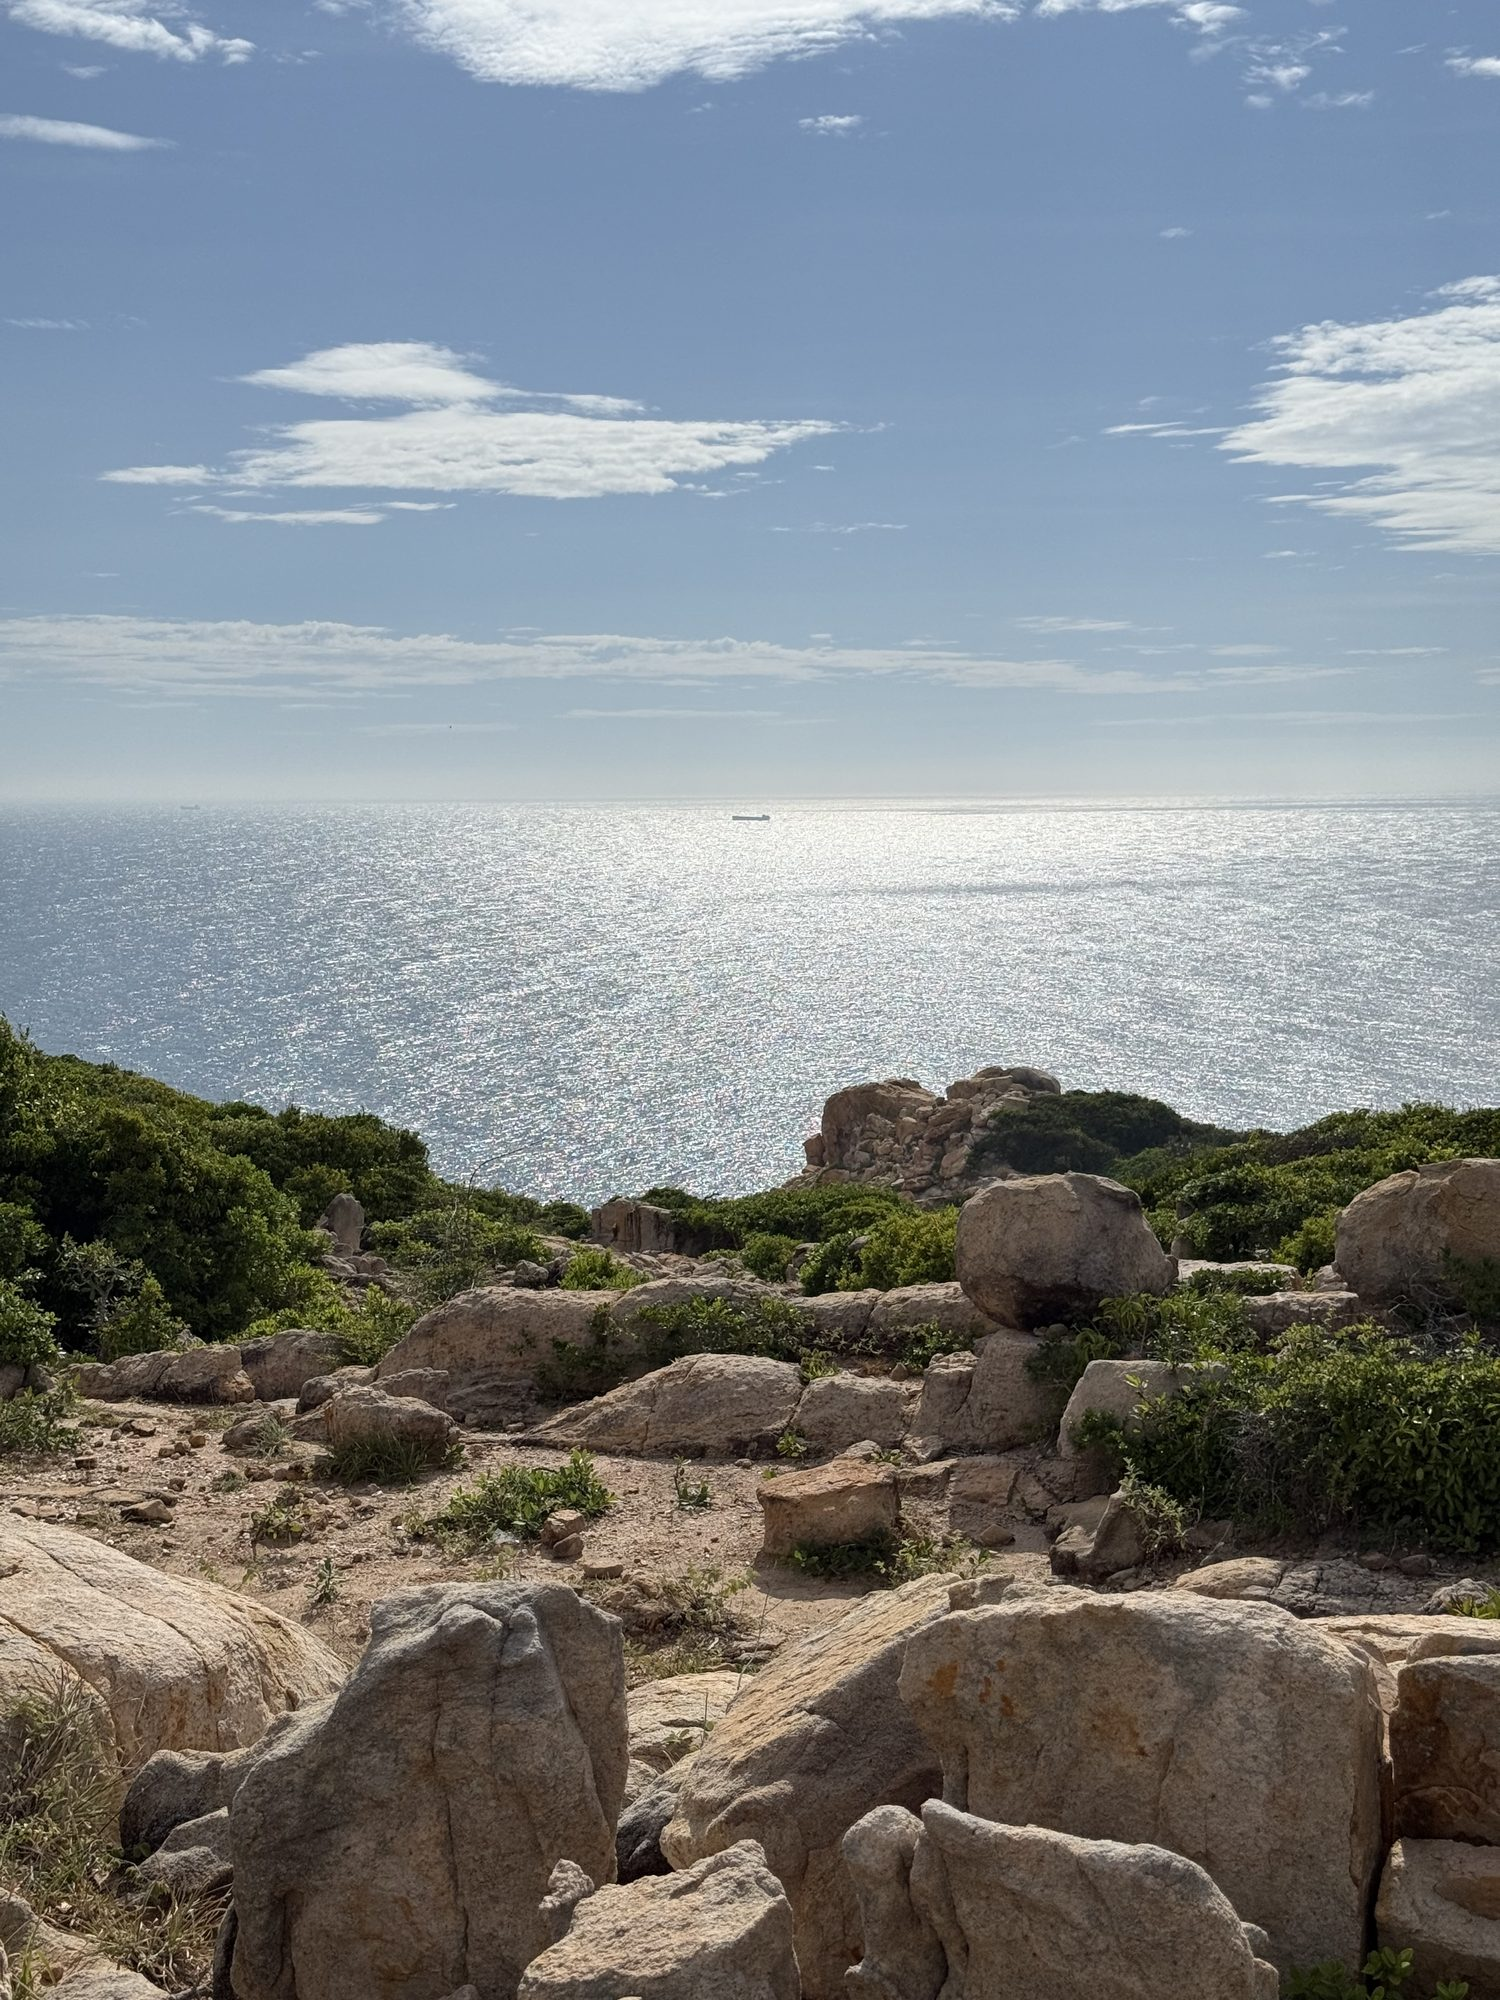
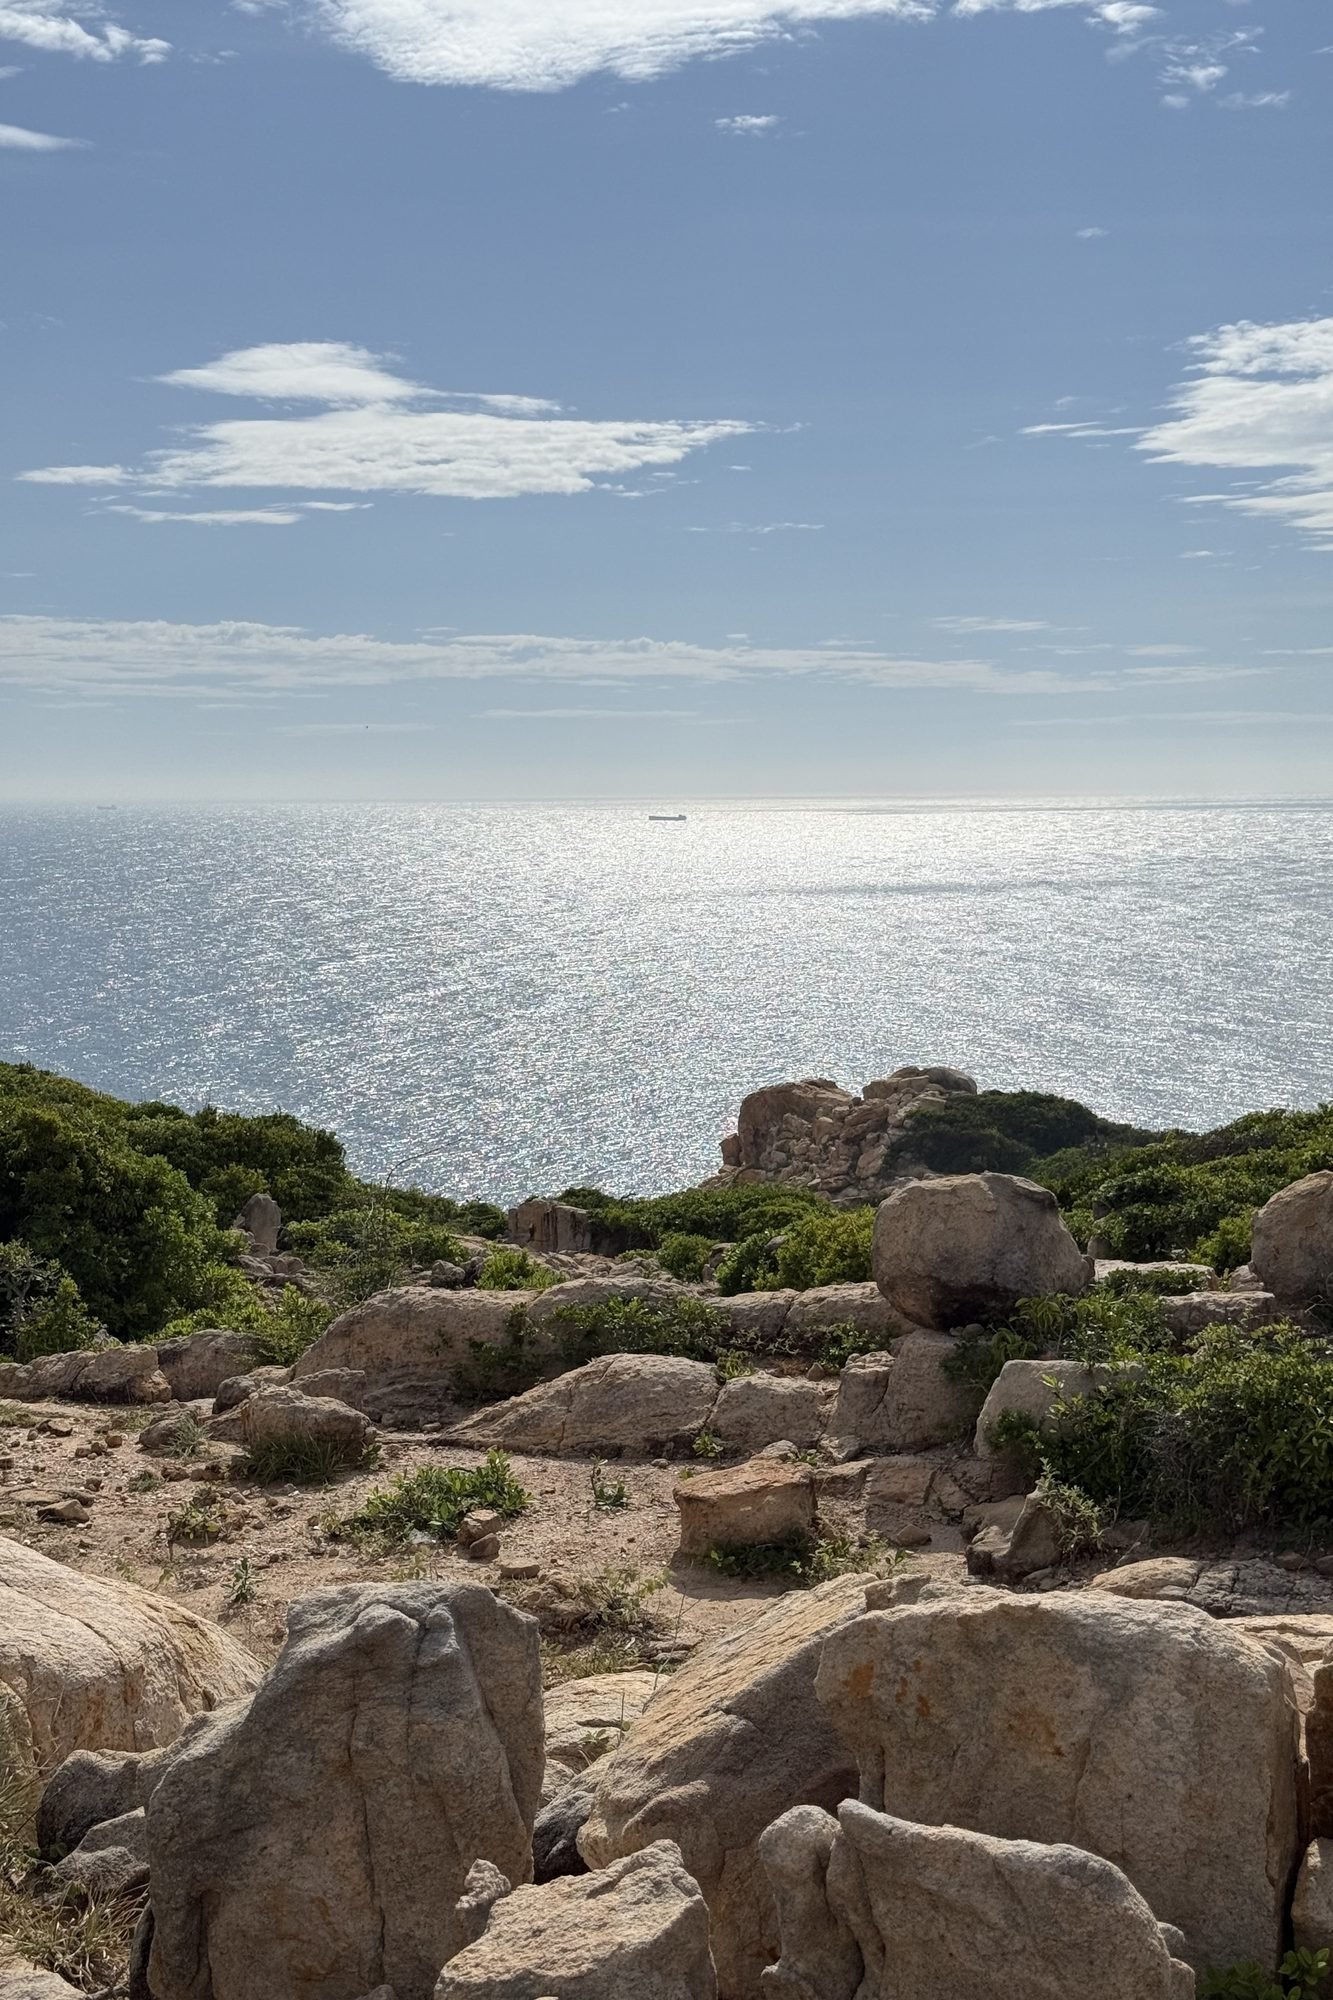
Galleries: 3:2 crops, four more cats, flipboard shuffle in the grid
Crop the four photos that weren't 3:2 (Istanbul cat, Ho Chi Minh City
cats, Vinh Hy, Toya) and add four cat photos. Grid slots are split-flap
tiles made of photo halves: every 15 seconds 3-6 slots trade photos,
each flapping through the photos in play. Drop the photo count from the
grid header and the dimming of other departures.

Claude-Session: https://claude.ai/code/session_01VstKBhx9XzpjtZXWaFpTid

diff --git a/assets/board.js b/assets/board.js
@@ -18,6 +18,7 @@
     },
     rotate: [3000, 8000],    // each row re-rolls its nonsense time / gate in this window
     songMs: 120000,          // music-of-the-day line changes this often
+    photoShuffleMs: 15000,   // gallery grids shuffle a few photos this often
   };
 
   // character drums: a tile flaps through these in order
@@ -741,16 +742,10 @@
   // ---------- screens ----------
   // the departure for the open screen shows in yellow (its status reads DEPARTED in red)
   function markSelected() {
-    let any = false;
     bottom.forEach((r) => {
       const it = r.data.item;
-      const on = !!it && screenFromHref(it.href) === state.screen && state.screen !== 'home';
-      any = any || on;
-      if (r.el) r.el.classList.toggle('sel', on);
+      if (r.el) r.el.classList.toggle('sel', !!it && screenFromHref(it.href) === state.screen && state.screen !== 'home');
     });
-    // the other departures recede so the eye lands on the selected one
-    const pane = bottom[0] && bottom[0].el && bottom[0].el.closest('.panel');
-    if (pane) pane.classList.toggle('has-sel', any);
   }
 
   function show(id, { boot = false } = {}) {
@@ -820,24 +815,94 @@
     if (state.gal) renderGallery(false);
   }
 
+  // ---- grid slots are split-flap tiles made of photo halves ----
+  G.order = {}; // gallery -> which photo sits in each slot
+  const thumbBg = (gid, idx) => `url("${photoSrc(gid, GALLERIES[gid].items[idx], true)}")`;
+
+  function makeSlot(gid) {
+    const a = h('a', 'thumb', { role: 'listitem' });
+    a.innerHTML = '<span class="ph t"><i></i></span><span class="ph b"><i></i></span><span class="ph ft"><i></i></span><span class="ph fb"><i></i></span>';
+    const [t, b, ft, fb] = Array.from(a.children, (c) => c.firstChild);
+    const slot = { el: a, t, b, ft, fb, gid, item: -1 };
+    a.addEventListener('click', (e) => {
+      if (e.metaKey || e.ctrlKey || e.shiftKey || e.altKey) return;
+      e.preventDefault();
+      navTo(`${gid}/${slot.item + 1}`);
+    });
+    return slot;
+  }
+  function labelSlot(slot) {
+    const p = GALLERIES[slot.gid].items[slot.item];
+    slot.el.setAttribute('href', `#${slot.gid}/${slot.item + 1}`);
+    slot.el.setAttribute('aria-label', p.caption);
+    slot.el.title = p.caption;
+  }
+  function paintSlot(slot, idx) {
+    slot.item = idx;
+    slot.t.style.backgroundImage = slot.b.style.backgroundImage = thumbBg(slot.gid, idx);
+    labelSlot(slot);
+  }
+  // one flap: the top half of the current photo falls, revealing the next photo
+  function flapSlot(slot, idx, d) {
+    const cur = thumbBg(slot.gid, slot.item), next = thumbBg(slot.gid, idx);
+    slot.t.style.backgroundImage = next;
+    slot.ft.style.backgroundImage = cur;
+    slot.fb.style.backgroundImage = next;
+    slot.el.classList.add('flipping');
+    Sound.tick();
+    const a1 = slot.ft.parentNode.animate([{ transform: 'rotateX(0deg)' }, { transform: 'rotateX(-90deg)' }],
+      { duration: d / 2, easing: 'ease-in', fill: 'forwards' });
+    const a2 = slot.fb.parentNode.animate([{ transform: 'rotateX(90deg)' }, { transform: 'rotateX(0deg)' }],
+      { duration: d / 2, delay: d / 2, easing: 'ease-out', fill: 'backwards' });
+    return a2.finished.catch(() => {}).then(() => {
+      slot.b.style.backgroundImage = next;
+      slot.el.classList.remove('flipping');
+      a1.cancel(); a2.cancel();
+      slot.item = idx;
+      labelSlot(slot);
+    });
+  }
+  // every so often a few slots (never all) trade photos, each flapping through the photos in play
+  async function shuffleGrid() {
+    const slots = G.slots || [];
+    const free = slots.map((s, i) => i).filter((i) => !slots[i].el.matches(':hover, :focus-visible'));
+    if (free.length < 3) return;
+    const k = Math.min(free.length, slots.length - 1, 3 + Math.floor(Math.random() * 4)); // 3 to 6
+    const chosen = shuffle(free).slice(0, k);
+    const pool = chosen.map((i) => slots[i].item);
+    await Promise.all(chosen.map(async (si, j) => {
+      const slot = slots[si];
+      const target = pool[(j + 1) % k]; // a cyclic shift, so every chosen slot ends on a different photo
+      const passes = shuffle(pool.filter((x) => x !== slot.item && x !== target)).slice(0, 1 + Math.floor(Math.random() * 3));
+      await sleep(j * 110);
+      for (const idx of [...passes, target]) await flapSlot(slot, idx, 300);
+    }));
+    G.order[slots[0].gid] = slots.map((s) => s.item);
+  }
+  async function shuffleLoop() {
+    for (;;) {
+      await sleep(CFG.photoShuffleMs);
+      if (reduced() || !state.gal || state.gal.n != null) continue;
+      await shuffleGrid();
+    }
+  }
+
   function renderGallery(animate) {
     const { gid, n } = state.gal;
     const g = GALLERIES[gid];
     G.h2.textContent = g.title;
     if (n == null) {
       G.grid.hidden = false; G.single.hidden = true;
-      G.count.textContent = `${g.items.length} photos`;
+      G.count.textContent = '';
       if (G.gridFor !== gid || !G.grid.children.length) {
         G.grid.textContent = '';
-        g.items.forEach((p, i) => {
-          const a = h('a', 'thumb', { role: 'listitem', href: `#${gid}/${i + 1}`, title: p.caption, style: `--i:${i}` },
-            h('img', null, { src: photoSrc(gid, p, true), alt: p.caption, loading: 'lazy', decoding: 'async' }));
-          a.addEventListener('click', (e) => {
-            if (e.metaKey || e.ctrlKey || e.shiftKey || e.altKey) return;
-            e.preventDefault();
-            navTo(`${gid}/${i + 1}`);
-          });
-          G.grid.append(a);
+        if (!G.order[gid]) G.order[gid] = g.items.map((_, i) => i); // newest first
+        G.slots = G.order[gid].map((idx, pos) => {
+          const slot = makeSlot(gid);
+          slot.el.style.setProperty('--i', pos);
+          paintSlot(slot, idx);
+          G.grid.append(slot.el);
+          return slot;
         });
         G.gridFor = gid;
       }
@@ -892,6 +957,7 @@
     state.gal = { gid, n };
     if (screens.photography) state.screen = 'photography';
     if (!entering) { renderGallery(false); return; }
+    G.order[gid] = null; G.gridFor = null; // each visit starts newest first
     const fields = [...top, ...bottom].flatMap((r) => [r.time, r.code, r.place, r.gate, r.status]).concat(F.song.filter(Boolean));
     fields.forEach((f) => f.write('', { stagger: 8, delay: Math.random() * 150, direct: true }));
     const swap = () => {
@@ -1019,6 +1085,7 @@
       nameLoop();
       top.concat(bottom).forEach((r) => rotateLoop(r));
       songLoop();
+      shuffleLoop();
     }, reduced() ? 0 : 3800);
 
     let raf = 0;

diff --git a/assets/board.css b/assets/board.css
@@ -333,11 +333,6 @@ body {
 .snd:focus-visible { outline: none; }
 .snd:hover::before, .snd:focus-visible::before { background: rgba(240, 176, 60, .12); }
 
-/* a departure is open: the other rows recede (they come back on hover) */
-.panel .row .cell, .panel .row .lamp { transition: opacity .3s; }
-.panel.has-sel .row:not(.sel) .cell, .panel.has-sel .row:not(.sel) .lamp { opacity: .38; }
-.panel.has-sel .row:not(.sel).hover .cell, .panel.has-sel .row:not(.sel).hover .lamp { opacity: 1; }
-
 @media (prefers-reduced-motion: reduce) {
   .lamp.blink { animation: none; }
   .ptitle, .cols, .row { transition: none; }
@@ -372,9 +367,26 @@ body {
   box-shadow: 0 calc(var(--tw) * .05) calc(var(--tw) * .15) rgba(0, 0, 0, .6);
   outline: none;
   transform-origin: 50% 0;
+  perspective: calc(var(--tw) * 25);
 }
-.thumb img { display: block; width: 100%; height: 100%; object-fit: cover; transition: filter .2s, transform .3s; filter: saturate(.92) brightness(.92); }
-.thumb:hover img, .thumb:focus-visible img { filter: none; transform: scale(1.03); }
+/* a slot is a split-flap tile made of photo halves (same build as the letter tiles) */
+.thumb .ph { position: absolute; left: 0; right: 0; height: 50%; overflow: hidden; backface-visibility: hidden; }
+.thumb .t, .thumb .ft { top: 0; }
+.thumb .b, .thumb .fb { bottom: 0; }
+.thumb .ph i {
+  position: absolute; left: 0; right: 0; height: 200%;
+  background: var(--tile-lo) center / cover no-repeat;
+  filter: saturate(.92) brightness(.92);
+  transition: filter .2s, transform .3s;
+}
+.thumb .t i, .thumb .ft i { top: 0; }
+.thumb .b i, .thumb .fb i { bottom: 0; }
+.thumb .ft { z-index: 2; transform-origin: 50% 100%; visibility: hidden; }
+.thumb .fb { z-index: 2; transform-origin: 50% 0; transform: rotateX(90deg); visibility: hidden; }
+.thumb.flipping .ft, .thumb.flipping .fb { visibility: visible; }
+.thumb.flipping .ft i { filter: brightness(.7); }
+.thumb.flipping::after { content: ""; position: absolute; z-index: 3; left: 0; right: 0; top: calc(50% - .5px); height: 1px; background: rgba(0, 0, 0, .7); }
+.thumb:hover .ph i, .thumb:focus-visible .ph i { filter: none; transform: scale(1.03); }
 .thumb:focus-visible, .thumb:hover { box-shadow: 0 0 0 2px var(--amber), 0 calc(var(--tw) * .05) calc(var(--tw) * .15) rgba(0, 0, 0, .6); }
 /* thumbnails drop in like flaps when a gallery opens */
 .gal-grid.flipin .thumb { animation: flapin .45s cubic-bezier(.3, 1.3, .5, 1) both; animation-delay: calc(var(--i) * 35ms); }
@@ -423,5 +435,5 @@ body {
 
 @media (prefers-reduced-motion: reduce) {
   .gal-grid.flipin .thumb { animation: none; }
-  .thumb img, .stage .photo { transition: none; }
+  .thumb .ph i, .stage .photo { transition: none; }
 }

diff --git a/assets/photos.js b/assets/photos.js
@@ -7,13 +7,13 @@ window.HNGN_PHOTOS = {
    {
     "id": "2026-09-toya",
     "caption": "Toya, Sep 2026",
-    "w": 1500,
+    "w": 1333,
     "h": 2000
    },
    {
     "id": "2026-08-vinh-hy",
     "caption": "Vinh Hy, Aug 2026",
-    "w": 1500,
+    "w": 1333,
     "h": 2000
    },
    {
@@ -113,7 +113,7 @@ window.HNGN_PHOTOS = {
     "h": 1333
    },
    {
-    "id": "2017-03-san-francisco-b",
+    "id": "2017-03-san-francisco-2",
     "caption": "San Francisco, Mar 2017",
     "w": 2000,
     "h": 1333
@@ -193,10 +193,10 @@ window.HNGN_PHOTOS = {
     "id": "2026-10-ho-chi-minh-city",
     "caption": "Ho Chi Minh City, Oct 2026",
     "w": 2000,
-    "h": 1500
+    "h": 1333
    },
    {
-    "id": "2018-07-taipei-b",
+    "id": "2018-07-taipei-2",
     "caption": "Taipei, Jul 2018",
     "w": 1944,
     "h": 1296
@@ -214,6 +214,12 @@ window.HNGN_PHOTOS = {
     "h": 1285
    },
    {
+    "id": "2018-06-santiago-2",
+    "caption": "Santiago, Jun 2018",
+    "w": 1944,
+    "h": 1296
+   },
+   {
     "id": "2018-06-santiago",
     "caption": "Santiago, Jun 2018",
     "w": 1944,
@@ -226,10 +232,28 @@ window.HNGN_PHOTOS = {
     "h": 1800
    },
    {
-    "id": "2017-12-istanbul-b",
+    "id": "2017-12-istanbul-5",
     "caption": "Istanbul, Dec 2017",
     "w": 2000,
-    "h": 2000
+    "h": 1334
+   },
+   {
+    "id": "2017-12-istanbul-4",
+    "caption": "Istanbul, Dec 2017",
+    "w": 2000,
+    "h": 1333
+   },
+   {
+    "id": "2017-12-istanbul-3",
+    "caption": "Istanbul, Dec 2017",
+    "w": 2000,
+    "h": 1333
+   },
+   {
+    "id": "2017-12-istanbul-2",
+    "caption": "Istanbul, Dec 2017",
+    "w": 2000,
+    "h": 1333
    },
    {
     "id": "2017-12-istanbul",
@@ -238,7 +262,7 @@ window.HNGN_PHOTOS = {
     "h": 1333
    },
    {
-    "id": "2017-08-penang-b",
+    "id": "2017-08-penang-2",
     "caption": "Penang, Aug 2017",
     "w": 2000,
     "h": 1333
